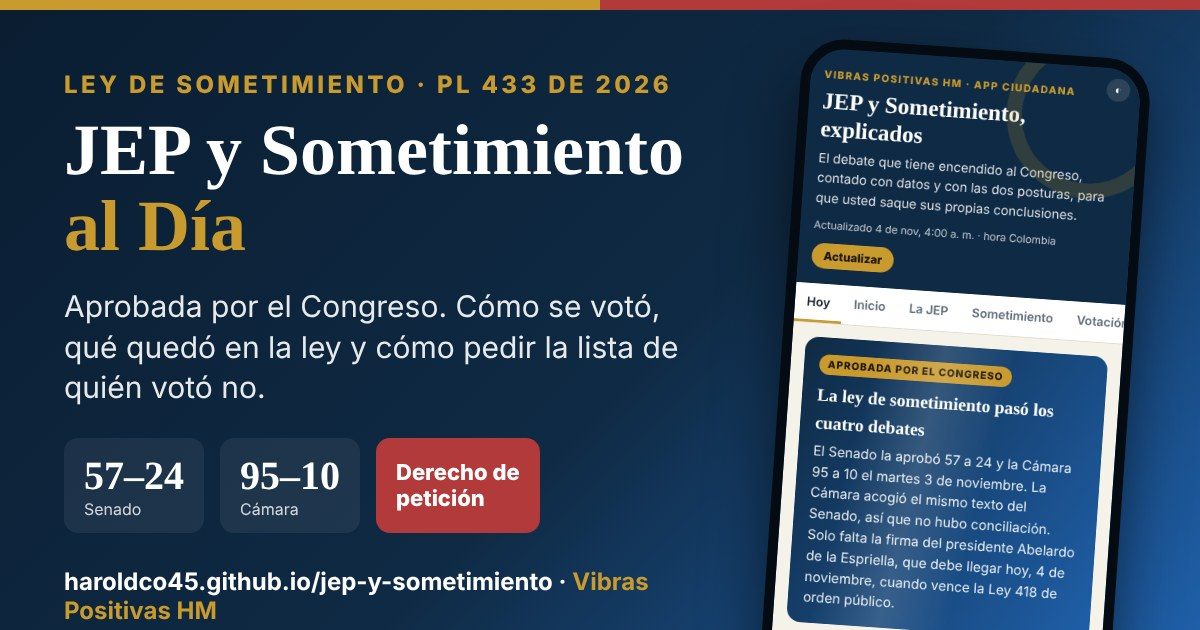
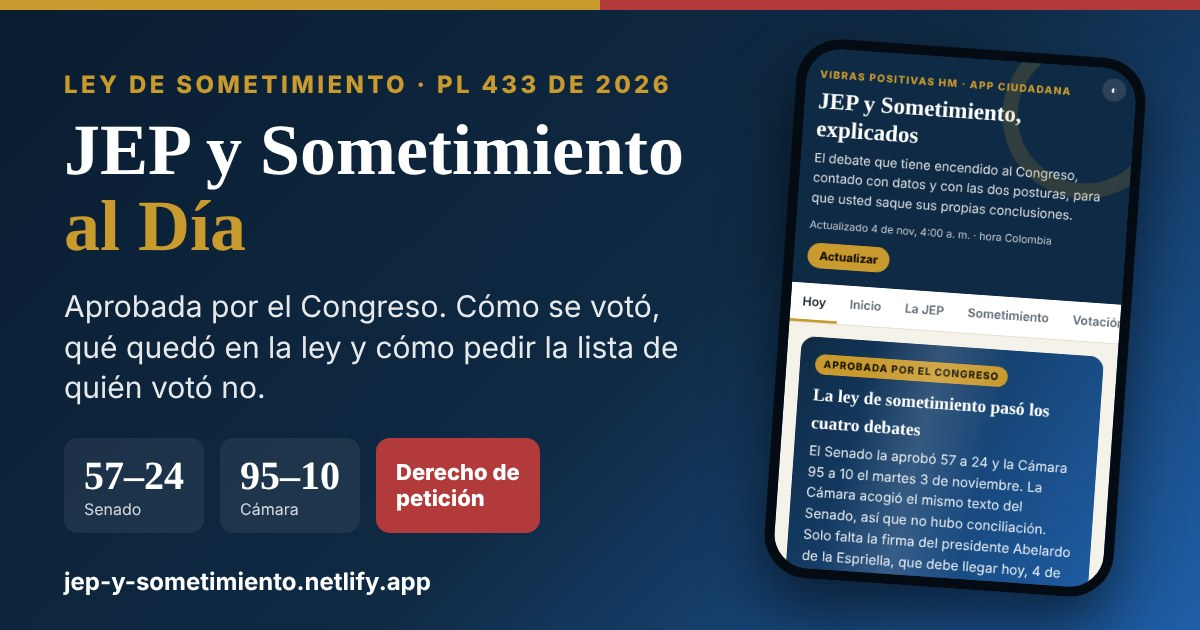
Vista previa apunta a Netlify y flyer completo
Claude-Session: https://claude.ai/code/session_01Qv96KVtcmoBFTxkC7kgwgb

Changed region(s): [[0.6167, 0.0905, 0.9558, 1.0], [0.0308, 0.9048, 0.555, 0.9952]]

diff --git a/index.html b/index.html
@@ -8,11 +8,11 @@
 <meta property="og:type" content="website">
 <meta property="og:title" content="JEP y Sometimiento al Día">
 <meta property="og:description" content="Aprobada: Senado 57-24 y Cámara 95-10. Qué quedó en la ley, qué sigue y cómo exigir la lista de quién votó no.">
-<meta property="og:image" content="https://haroldco45.github.io/jep-y-sometimiento/og-image.jpg">
+<meta property="og:image" content="https://jep-y-sometimiento.netlify.app/og-image.jpg">
 <meta property="og:image:width" content="1200">
 <meta property="og:image:height" content="630">
 <meta name="twitter:card" content="summary_large_image">
-<meta name="twitter:image" content="https://haroldco45.github.io/jep-y-sometimiento/og-image.jpg">
+<meta name="twitter:image" content="https://jep-y-sometimiento.netlify.app/og-image.jpg">
 <meta name="theme-color" content="#0f2a44">
 <link rel="manifest" href="manifest.json">
 <link rel="icon" href="icon.svg" type="image/svg+xml">
